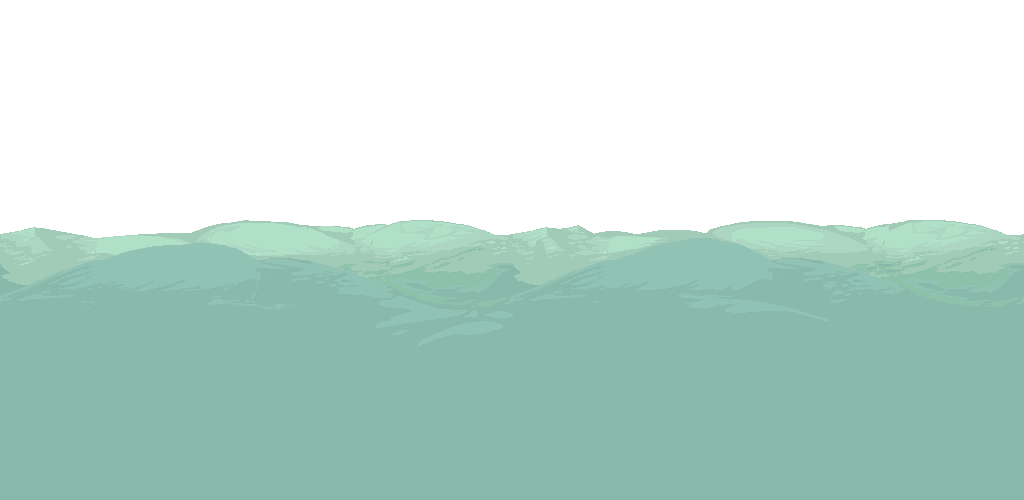
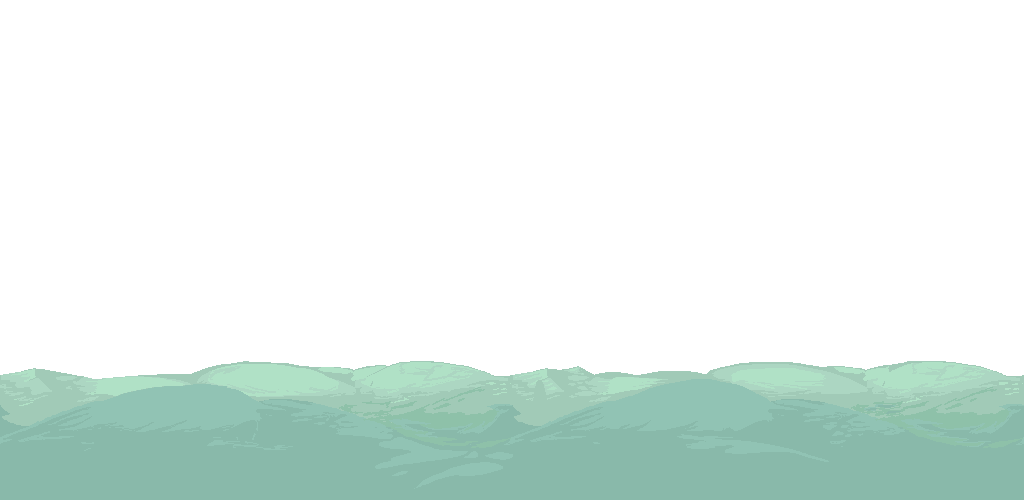
snow waste bg fix + purity bg

diff --git a/Backgrounds/WastelandSurfaceBackgroundStyle.cs b/Backgrounds/WastelandSurfaceBackgroundStyle.cs
@@ -1,4 +1,10 @@
+using Microsoft.Xna.Framework;
+using Microsoft.Xna.Framework.Graphics;
+using Redemption.Globals;
+using System;
 using Terraria;
+using Terraria.GameContent;
+using Terraria.Graphics.Effects;
 using Terraria.ModLoader;
 
 namespace Redemption.Backgrounds
@@ -28,19 +34,64 @@ namespace Redemption.Backgrounds
 			}
 		}
 
-		public override int ChooseFarTexture()
-		{
-			return BackgroundTextureLoader.GetBackgroundSlot("Redemption/Backgrounds/WastelandBiomeSurfaceFar");
-		}
 
-		public override int ChooseMiddleTexture()
-		{
-			return BackgroundTextureLoader.GetBackgroundSlot("Redemption/Backgrounds/WastelandBiomeSurfaceMid");
-		}
+        public override int ChooseFarTexture()
+        {
+            return -1;
+        }
 
-		public override int ChooseCloseTexture(ref float scale, ref double parallax, ref float a, ref float b)
-		{
-			return BackgroundTextureLoader.GetBackgroundSlot("Redemption/Backgrounds/WastelandBiomeSurfaceClose");
-		}
-	}
+        public override int ChooseMiddleTexture()
+        {
+            return -1;
+        }
+
+        public override int ChooseCloseTexture(ref float scale, ref double parallax, ref float a, ref float b)
+        {
+            return BackgroundTextureLoader.GetBackgroundSlot("Redemption/Backgrounds/PurityWastelandBG2");
+        }
+        public override bool PreDrawCloseBackground(SpriteBatch spriteBatch)
+        {
+            float a = 1300f;
+            float b = 1750f;
+            int[] textureSlots = new int[] {
+                BackgroundTextureLoader.GetBackgroundSlot("Redemption/Backgrounds/PurityWastelandBG4"),
+                BackgroundTextureLoader.GetBackgroundSlot("Redemption/Backgrounds/PurityWastelandBG3"),
+                BackgroundTextureLoader.GetBackgroundSlot("Redemption/Backgrounds/PurityWastelandBG2"),
+                BackgroundTextureLoader.GetBackgroundSlot("Redemption/Backgrounds/PurityWastelandBG1"),
+            };
+            int length = textureSlots.Length;
+            for (int i = 0; i < textureSlots.Length; i++)
+            {
+                //Custom: bgScale,textureslot,patallaz,these 2 numbers....,Top and Start?
+                float bgParallax = 0.37f + 0.2f - (0.1f * (length - i));
+                int textureSlot = textureSlots[i];
+                Main.instance.LoadBackground(textureSlot);
+                float bgScale = 2.5f;
+                int bgW = (int)(Main.backgroundWidth[textureSlot] * bgScale);
+                SkyManager.Instance.DrawToDepth(Main.spriteBatch, 1f / bgParallax);
+                float screenOff = typeof(Main).GetFieldValue<float>("screenOff", Main.instance);
+                float scAdj = typeof(Main).GetFieldValue<float>("scAdj", Main.instance);
+                int bgStart = (int)(-Math.IEEERemainder(Main.screenPosition.X * bgParallax, bgW) - (bgW / 2));
+                int bgTop = (int)((-Main.screenPosition.Y + screenOff / 2f) / (Main.worldSurface * 16.0) * a + b) + (int)scAdj - ((length - i) * 200);
+                if (Main.gameMenu)
+                {
+                    bgTop = 320;
+                }
+                Color backColor = typeof(Main).GetFieldValue<Color>("ColorOfSurfaceBackgroundsModified", Main.instance);
+                int bgLoops = Main.screenWidth / bgW + 2;
+                if (Main.screenPosition.Y < Main.worldSurface * 16.0 + 16.0)
+                {
+                    for (int k = 0; k < bgLoops; k++)
+                    {
+                        Main.spriteBatch.Draw(TextureAssets.Background[textureSlot].Value,
+                            new Vector2(bgStart + bgW * k, bgTop),
+                            new Rectangle(0, 0, Main.backgroundWidth[textureSlot], Main.backgroundHeight[textureSlot]),
+                            backColor, 0f, default, bgScale, SpriteEffects.None, 0f);
+                    }
+                }
+
+            }
+            return false;
+        }
+    }
 }

diff --git a/Backgrounds/WastelandSnowBackgroundStyle.cs b/Backgrounds/WastelandSnowBackgroundStyle.cs
@@ -50,7 +50,7 @@ namespace Redemption.Backgrounds
         }
         public override bool PreDrawCloseBackground(SpriteBatch spriteBatch)
         {
-            float a = 1300f;
+            float a = 1800f;
             float b = 1750f;
             int[] textureSlots = new int[] {
                 BackgroundTextureLoader.GetBackgroundSlot("Redemption/Backgrounds/WastelandSnowBG3"),
@@ -71,12 +71,12 @@ namespace Redemption.Backgrounds
                 float screenOff = typeof(Main).GetFieldValue<float>("screenOff", Main.instance);
                 float scAdj = typeof(Main).GetFieldValue<float>("scAdj", Main.instance);
                 int bgStart = (int)(-Math.IEEERemainder(Main.screenPosition.X * bgParallax, bgW) - (bgW / 2));
-                int bgTop = (int)((-Main.screenPosition.Y + screenOff / 2f) / (Main.worldSurface * 16.0) * a + b) + (int)scAdj - ((length - i) * 200);
+                int bgTop = (int)((-Main.screenPosition.Y + screenOff / 2f) / (Main.worldSurface * 16.0) * a + b) + (int)scAdj - ((length - i) * 300);
                 if (Main.gameMenu)
                 {
                     bgTop = 320;
                 }
-                Color backColor = typeof(Main).GetFieldValue<Color>("backColor", Main.instance); // TODO: Fix that
+                Color backColor = typeof(Main).GetFieldValue<Color>("ColorOfSurfaceBackgroundsModified", Main.instance);
                 int bgLoops = Main.screenWidth / bgW + 2;
                 if (Main.screenPosition.Y < Main.worldSurface * 16.0 + 16.0)
                 {

diff --git a/Redemption.cs b/Redemption.cs
@@ -78,6 +78,8 @@ namespace Redemption
                     Texture2D transitionTex = ModContent.Request<Texture2D>("Redemption/Textures/TransitionTex",
                         ReLogic.Content.AssetRequestMode.ImmediateLoad).Value;
                     PremultiplyTexture(ref transitionTex);
+                    Texture2D purityWastelandBG3Tex = ModContent.Request<Texture2D>("Redemption/Backgrounds/PurityWastelandBG3", ReLogic.Content.AssetRequestMode.ImmediateLoad).Value;
+                    PremultiplyTexture(ref purityWastelandBG3Tex);
                 });
             }
 
